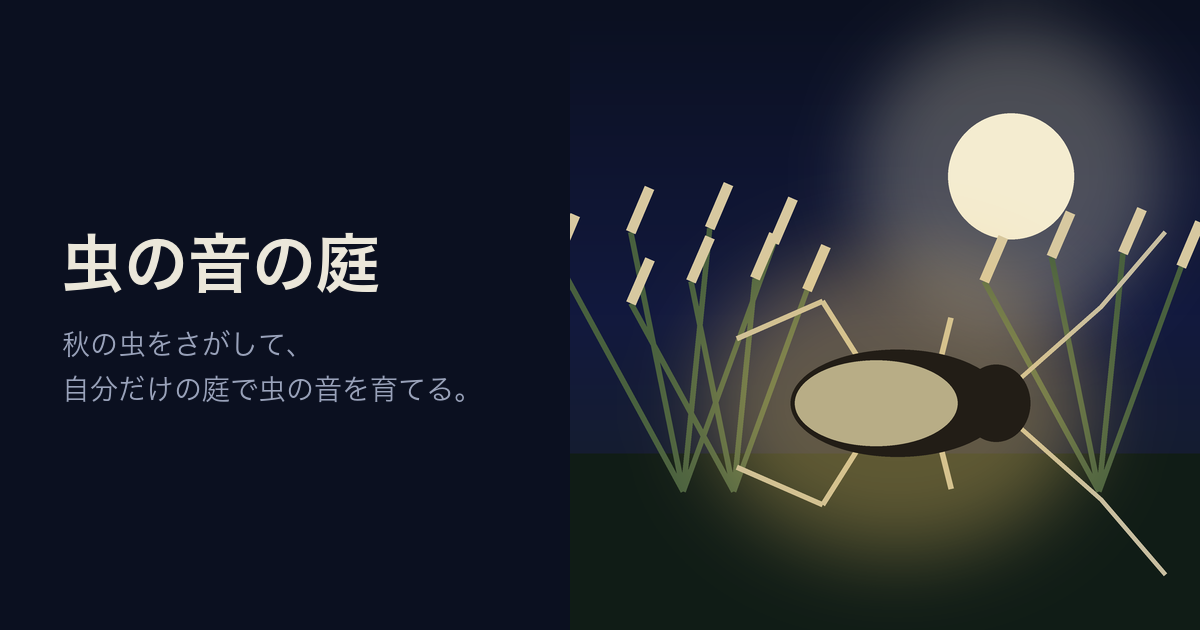
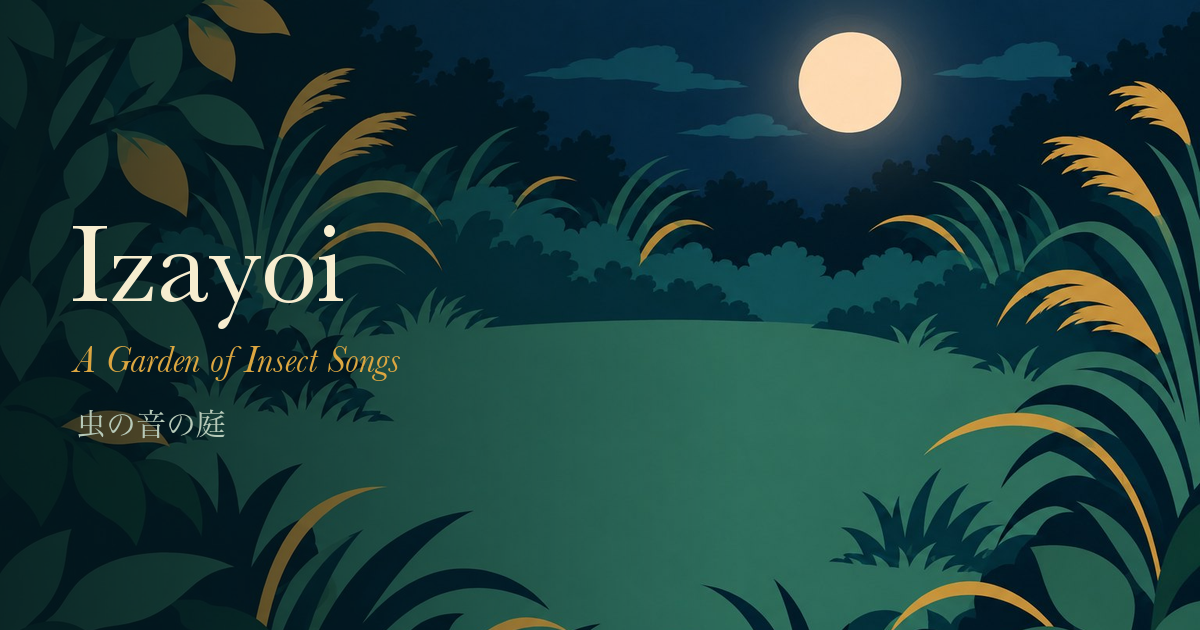
アプリ名を「Izayoi — A Garden of Insect Songs」に（日本語名「虫の音の庭」は副題として残す）
- タイトル・ホーム画面の名前・共有用画像・最初の画面・ヘッダーを変更
- 公開アドレスは今のまま（将来のネイティブアプリ化を見据えて変えない）

diff --git a/index.html b/index.html
@@ -4,16 +4,17 @@
 <meta charset="utf-8">
 <meta name="viewport" content="width=device-width,initial-scale=1,viewport-fit=cover">
 <meta name="theme-color" content="#071a28">
-<title>虫の音の庭</title>
+<title>Izayoi — A Garden of Insect Songs</title>
 <meta name="description" content="秋の虫をさがして、自分だけの庭で虫の音を育てるBGMアプリ。">
 <link rel="manifest" href="manifest.webmanifest">
 <link rel="apple-touch-icon" href="icons/icon-180.png">
 <meta name="apple-mobile-web-app-capable" content="yes">
 <meta name="apple-mobile-web-app-status-bar-style" content="black">
-<meta name="apple-mobile-web-app-title" content="虫の音の庭">
+<meta name="apple-mobile-web-app-title" content="Izayoi">
 <meta property="og:type" content="website">
 <meta property="og:locale" content="ja_JP">
-<meta property="og:title" content="虫の音の庭">
+<meta property="og:title" content="Izayoi — A Garden of Insect Songs">
+<meta property="og:site_name" content="Izayoi">
 <meta property="og:description" content="秋の虫をさがして、自分だけの庭で虫の音を育てる。">
 <meta property="og:url" content="https://ka428387.github.io/mushi-no-niwa/">
 <meta property="og:image" content="https://ka428387.github.io/mushi-no-niwa/og.png">
@@ -26,8 +27,8 @@
 html,body{margin:0;background:var(--bg);color:var(--text);font-family:-apple-system,BlinkMacSystemFont,"Hiragino Sans","Noto Sans JP",sans-serif;-webkit-tap-highlight-color:transparent}
 button{font:inherit;color:inherit;cursor:pointer}
 header{max-width:760px;margin:0 auto;display:flex;align-items:center;gap:10px;padding:12px 16px 8px;padding-top:max(12px,env(safe-area-inset-top))}
-h1{font-size:18px;margin:0;font-weight:600;letter-spacing:.08em;flex:1}
-h1 small{font-size:11px;color:var(--sub);font-weight:400;letter-spacing:0;margin-left:6px}
+h1{font-family:Baskerville,"Hoefler Text",Georgia,serif;font-size:22px;margin:0;font-weight:400;letter-spacing:.04em;flex:1}
+h1 small{font-family:-apple-system,BlinkMacSystemFont,"Hiragino Sans",sans-serif;font-size:11px;color:var(--sub);font-weight:400;letter-spacing:0;margin-left:6px}
 #playBtn{background:var(--panel2);border:1px solid var(--line);border-radius:999px;padding:6px 14px;font-size:13px;color:var(--text)}
 nav{max-width:760px;margin:0 auto 10px;padding:0 16px;display:flex;gap:6px}
 nav button{flex:1;background:var(--panel);border:1px solid var(--line);border-radius:10px;padding:9px 0;font-size:14px;color:var(--sub)}
@@ -76,7 +77,9 @@ h2{font-size:14px;color:var(--sub);font-weight:500;margin:18px 2px 8px}
 .sheet .acts{display:flex;gap:8px;flex-wrap:wrap}
 .sheet .acts .btn{flex:1;padding:10px;font-size:14px}
 #start{position:fixed;inset:0;background:linear-gradient(rgba(2,24,27,.18),rgba(2,24,27,.7)),url('assets/garden.jpg') center 10%/cover no-repeat;z-index:20;display:flex;flex-direction:column;align-items:center;justify-content:center;gap:18px;text-align:center;padding:24px}
-#start h2{font-size:26px;color:var(--text);letter-spacing:.2em;margin:0}
+#start h2{font-family:Baskerville,"Hoefler Text",Georgia,serif;font-weight:400;font-size:40px;color:var(--text);letter-spacing:.06em;margin:0}
+#start .sub{font-family:Baskerville,"Hoefler Text",Georgia,serif;font-style:italic;font-size:17px;color:var(--accent);line-height:1.8;margin-top:-10px}
+#start .sub span{font-family:"Hiragino Mincho ProN",serif;font-style:normal;font-size:13px;color:var(--sub);letter-spacing:.2em}
 #start p{color:var(--sub);font-size:13.5px;line-height:1.9;margin:0}
 #start button{background:transparent;border:1px solid var(--accent);color:var(--accent);border-radius:999px;padding:12px 40px;font-size:16px;letter-spacing:.2em}
 .wx{grid-column:1/-1;font-size:12.5px;color:var(--sub)}.wx .chips{margin:6px 0 2px}.wx .chips button{flex:1}
@@ -91,13 +94,14 @@ h2{font-size:14px;color:var(--sub);font-weight:500;margin:18px 2px 8px}
 <body>
 
 <div id="start">
-  <h2>虫の音の庭</h2>
+  <h2>Izayoi</h2>
+  <div class="sub">A Garden of Insect Songs<br><span>虫の音の庭</span></div>
   <p>夜の草むらで秋の虫をさがして、<br>自分だけの庭に放して音を育てる。<br><small>イヤホンだと、虫のいる方向が聞き分けられます。</small></p>
   <button id="startBtn">はじめる</button>
 </div>
 
 <header>
-  <h1>虫の音の庭<small id="clock"></small></h1>
+  <h1>Izayoi<small>虫の音の庭</small></h1>
   <button id="playBtn">一時停止</button>
 </header>
 <nav>

diff --git a/sw.js b/sw.js
@@ -1,7 +1,7 @@
 /* 虫の音の庭 Service Worker
    静的ファイルだけの構成なので、初回に全部キャッシュしてオフラインで動くようにする。
    取り出しは cache-first、裏で取り直して次回起動時に新しくなる（stale-while-revalidate）。 */
-const CACHE = 'mushi-no-niwa-v11';
+const CACHE = 'mushi-no-niwa-v12';
 
 const ASSETS = [
   './',

diff --git a/README.md b/README.md
@@ -1,4 +1,6 @@
-# 虫の音の庭
+# Izayoi — A Garden of Insect Songs
+
+虫の音の庭
 
 秋の虫をさがして、自分だけの庭で虫の音を育てるBGMアプリ。
 
